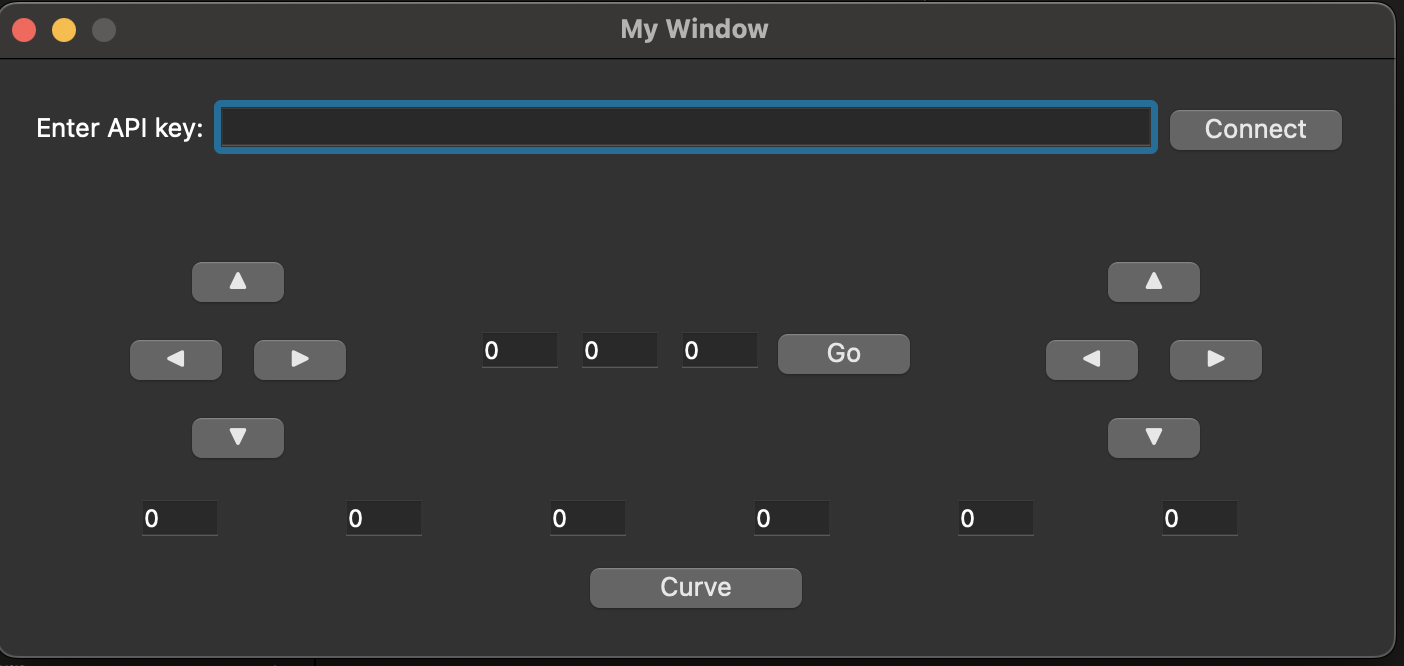
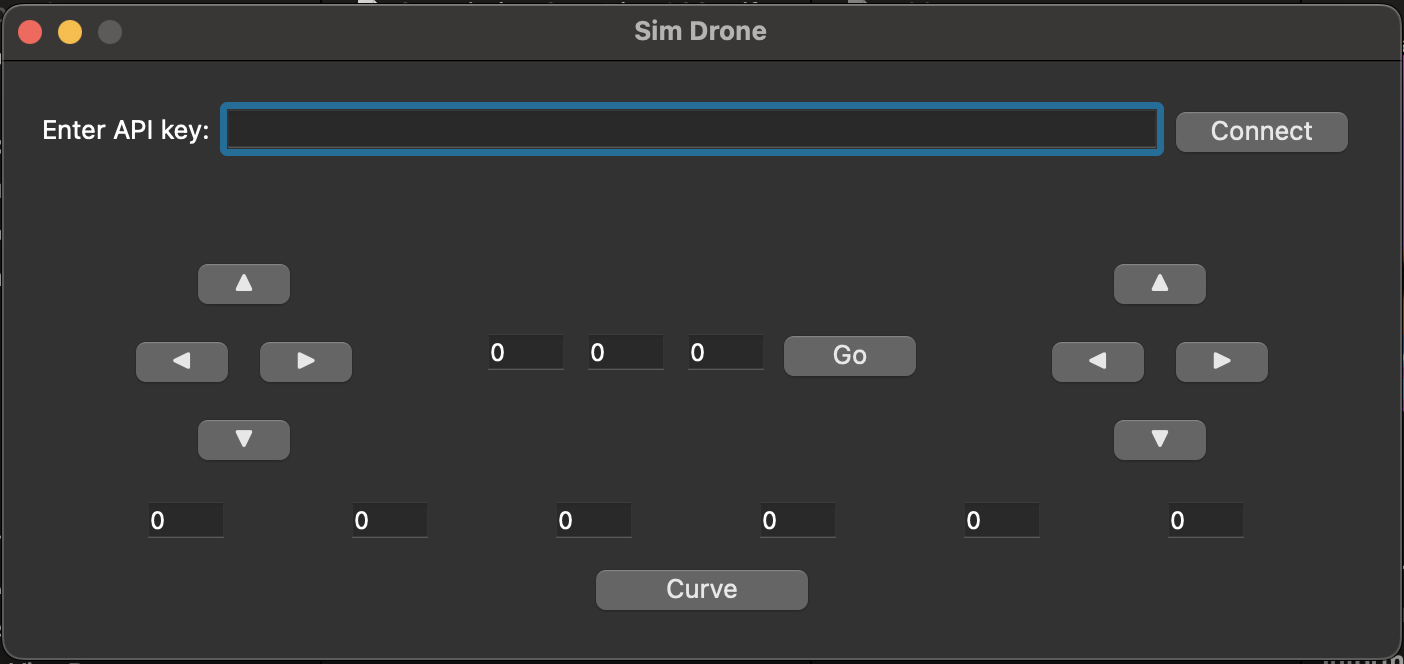
updated the window title

diff --git a/drone_controller.py b/drone_controller.py
@@ -264,7 +264,7 @@ class MyWindow(QWidget):
         #########################################################################################
 
         self.setLayout(main_layout)
-        self.setWindowTitle("My Window")
+        self.setWindowTitle("Sim Drone")
 
 if __name__ == '__main__':
     app = QApplication(sys.argv)
